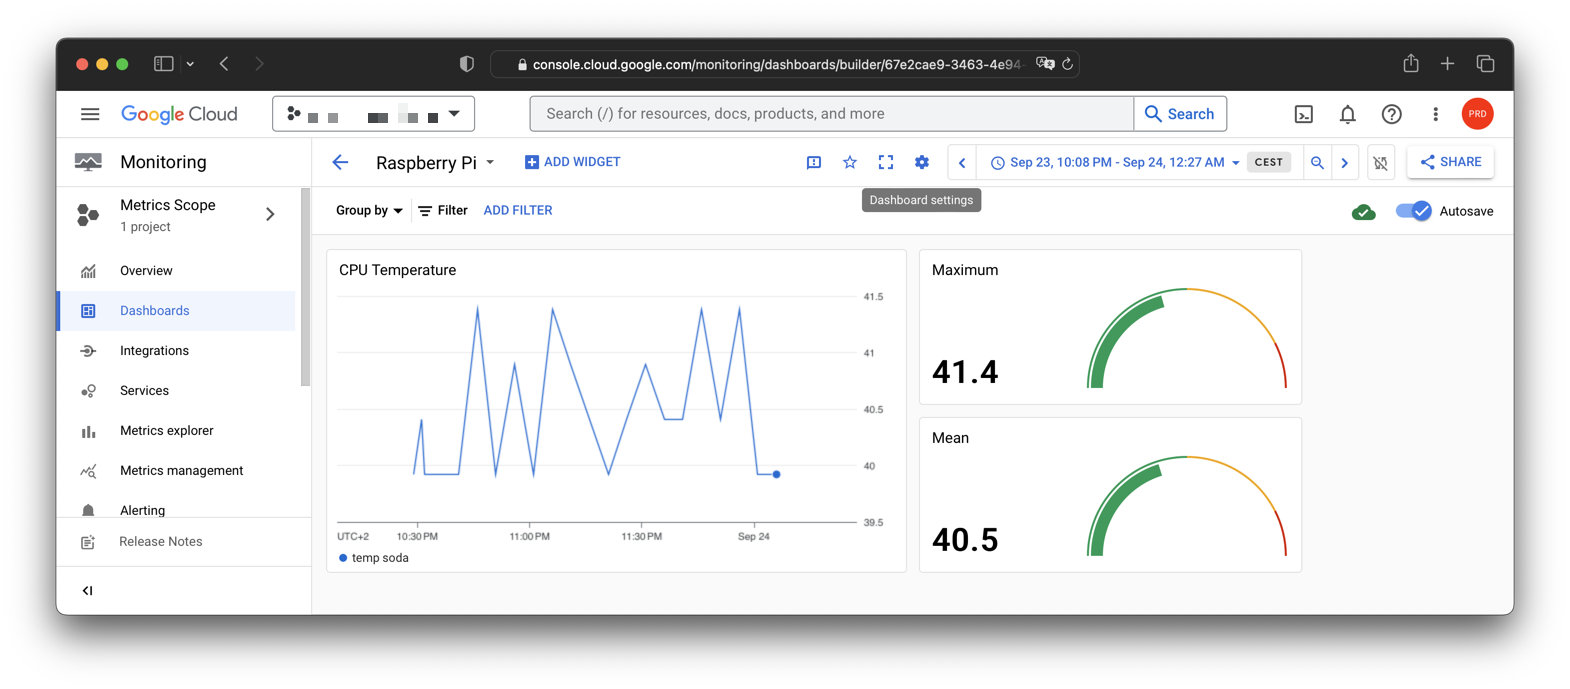
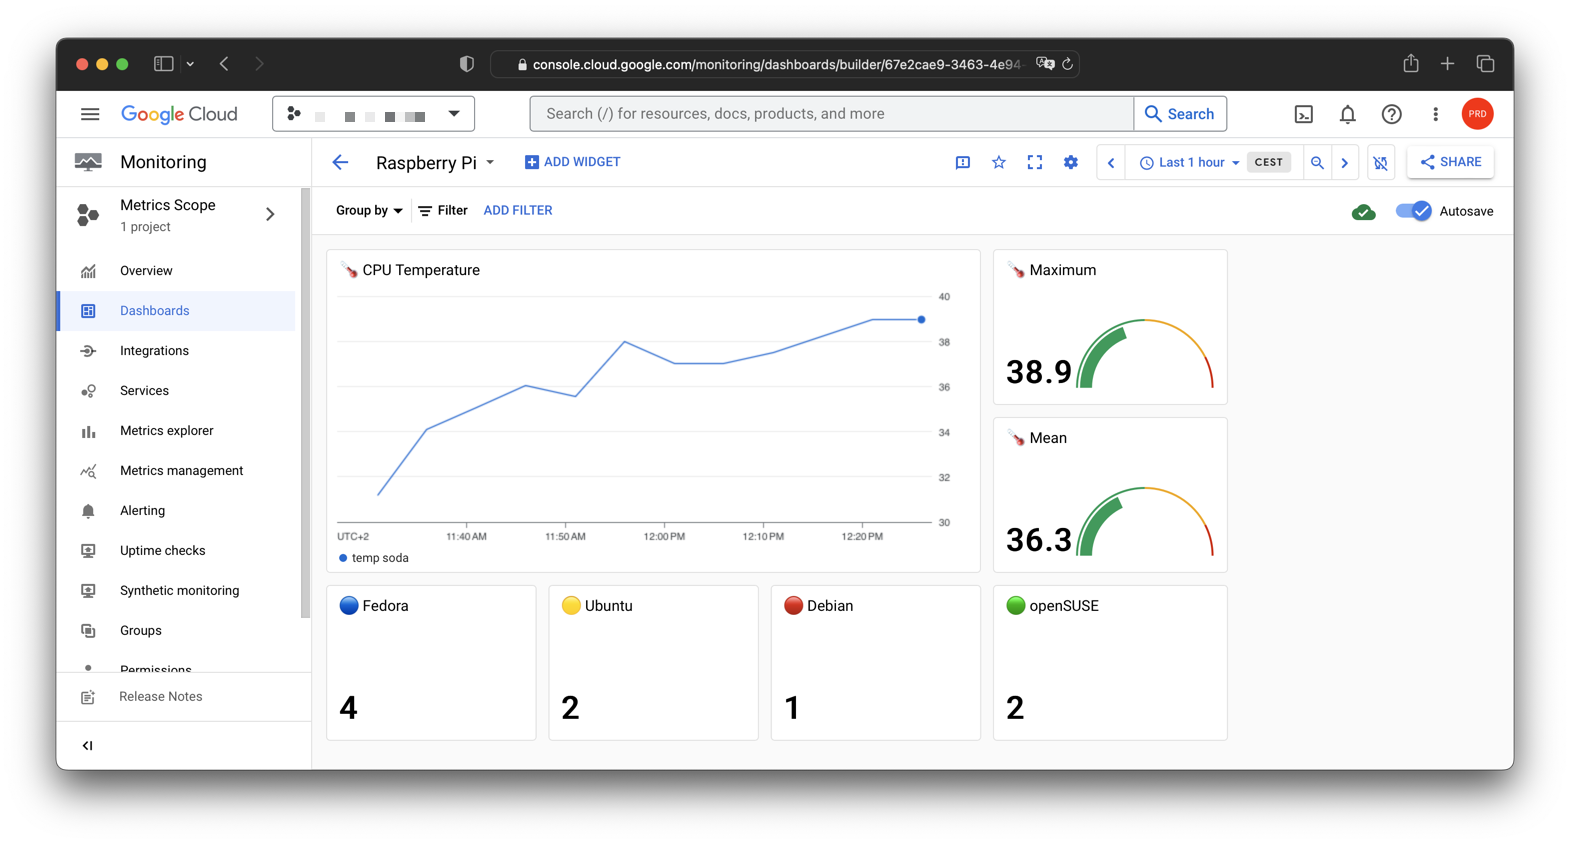
count os images (#5)

diff --git a/gcp/cloudfunction-count/main.py b/gcp/cloudfunction-count/main.py
@@ -1,0 +1,75 @@
+# Copyright 2023 Nils Knieling
+#
+# Licensed under the Apache License, Version 2.0 (the "License");
+# you may not use this file except in compliance with the License.
+# You may obtain a copy of the License at
+#
+#      http://www.apache.org/licenses/LICENSE-2.0
+#
+# Unless required by applicable law or agreed to in writing, software
+# distributed under the License is distributed on an "AS IS" BASIS,
+# WITHOUT WARRANTIES OR CONDITIONS OF ANY KIND, either express or implied.
+# See the License for the specific language governing permissions and
+# limitations under the License.
+
+#
+# This Google Cloud function reads the Pub/Sub topic of the
+# create build topic and writes the OS image to a custom monitoring metric.
+#
+
+import base64
+import json
+import os
+import time
+
+from google.cloud import monitoring_v3
+
+
+def temp(data: dict, context):
+    """Triggered from a message on a Cloud Pub/Sub topic.
+    Args:
+        data (dict): Event payload.
+        context (google.cloud.functions.Context): Metadata for the event.
+    """
+
+    # Project ID
+    project_id = os.environ["MY_GOOGLE_CLOUD_PROJECT"]
+    print(f"Project ID: {project_id}")
+
+    # Region
+    region = os.environ["MY_GOOGLE_CLOUD_REGION"]
+    print(f"Region: {region}")
+
+    # Pub/Sub message
+    pubsub_data = base64.b64decode(data["data"]).decode("utf-8")
+    print(f"Data: {pubsub_data}")
+
+    # Decode JSON
+    pubsub_json = json.loads(pubsub_data)
+    image = pubsub_json["image"]
+    print(f"OS image: {image}")
+
+    # https://cloud.google.com/monitoring/custom-metrics/creating-metrics
+    client = monitoring_v3.MetricServiceClient()
+    series = monitoring_v3.TimeSeries()
+    # https://cloud.google.com/monitoring/custom-metrics#identifier
+    series.metric.type = "custom.googleapis.com/compute/os/images"
+    # https://cloud.google.com/monitoring/api/resources#tag_generic_node
+    series.resource.type = "global"
+    series.resource.labels["project_id"] = project_id
+    series.metric.labels["image"] = image
+
+    now = time.time()
+    seconds = int(now)
+    nanos = int((now - seconds) * 10**9)
+    interval = monitoring_v3.TimeInterval(
+        {"end_time": {"seconds": seconds, "nanos": nanos}}
+    )
+    point = monitoring_v3.Point({
+        "interval": interval,
+        "value": {"double_value": 1.0}
+    })
+    series.points = [point]
+
+    project_name = f"projects/{project_id}"
+    client.create_time_series(name=project_name, time_series=[series])
